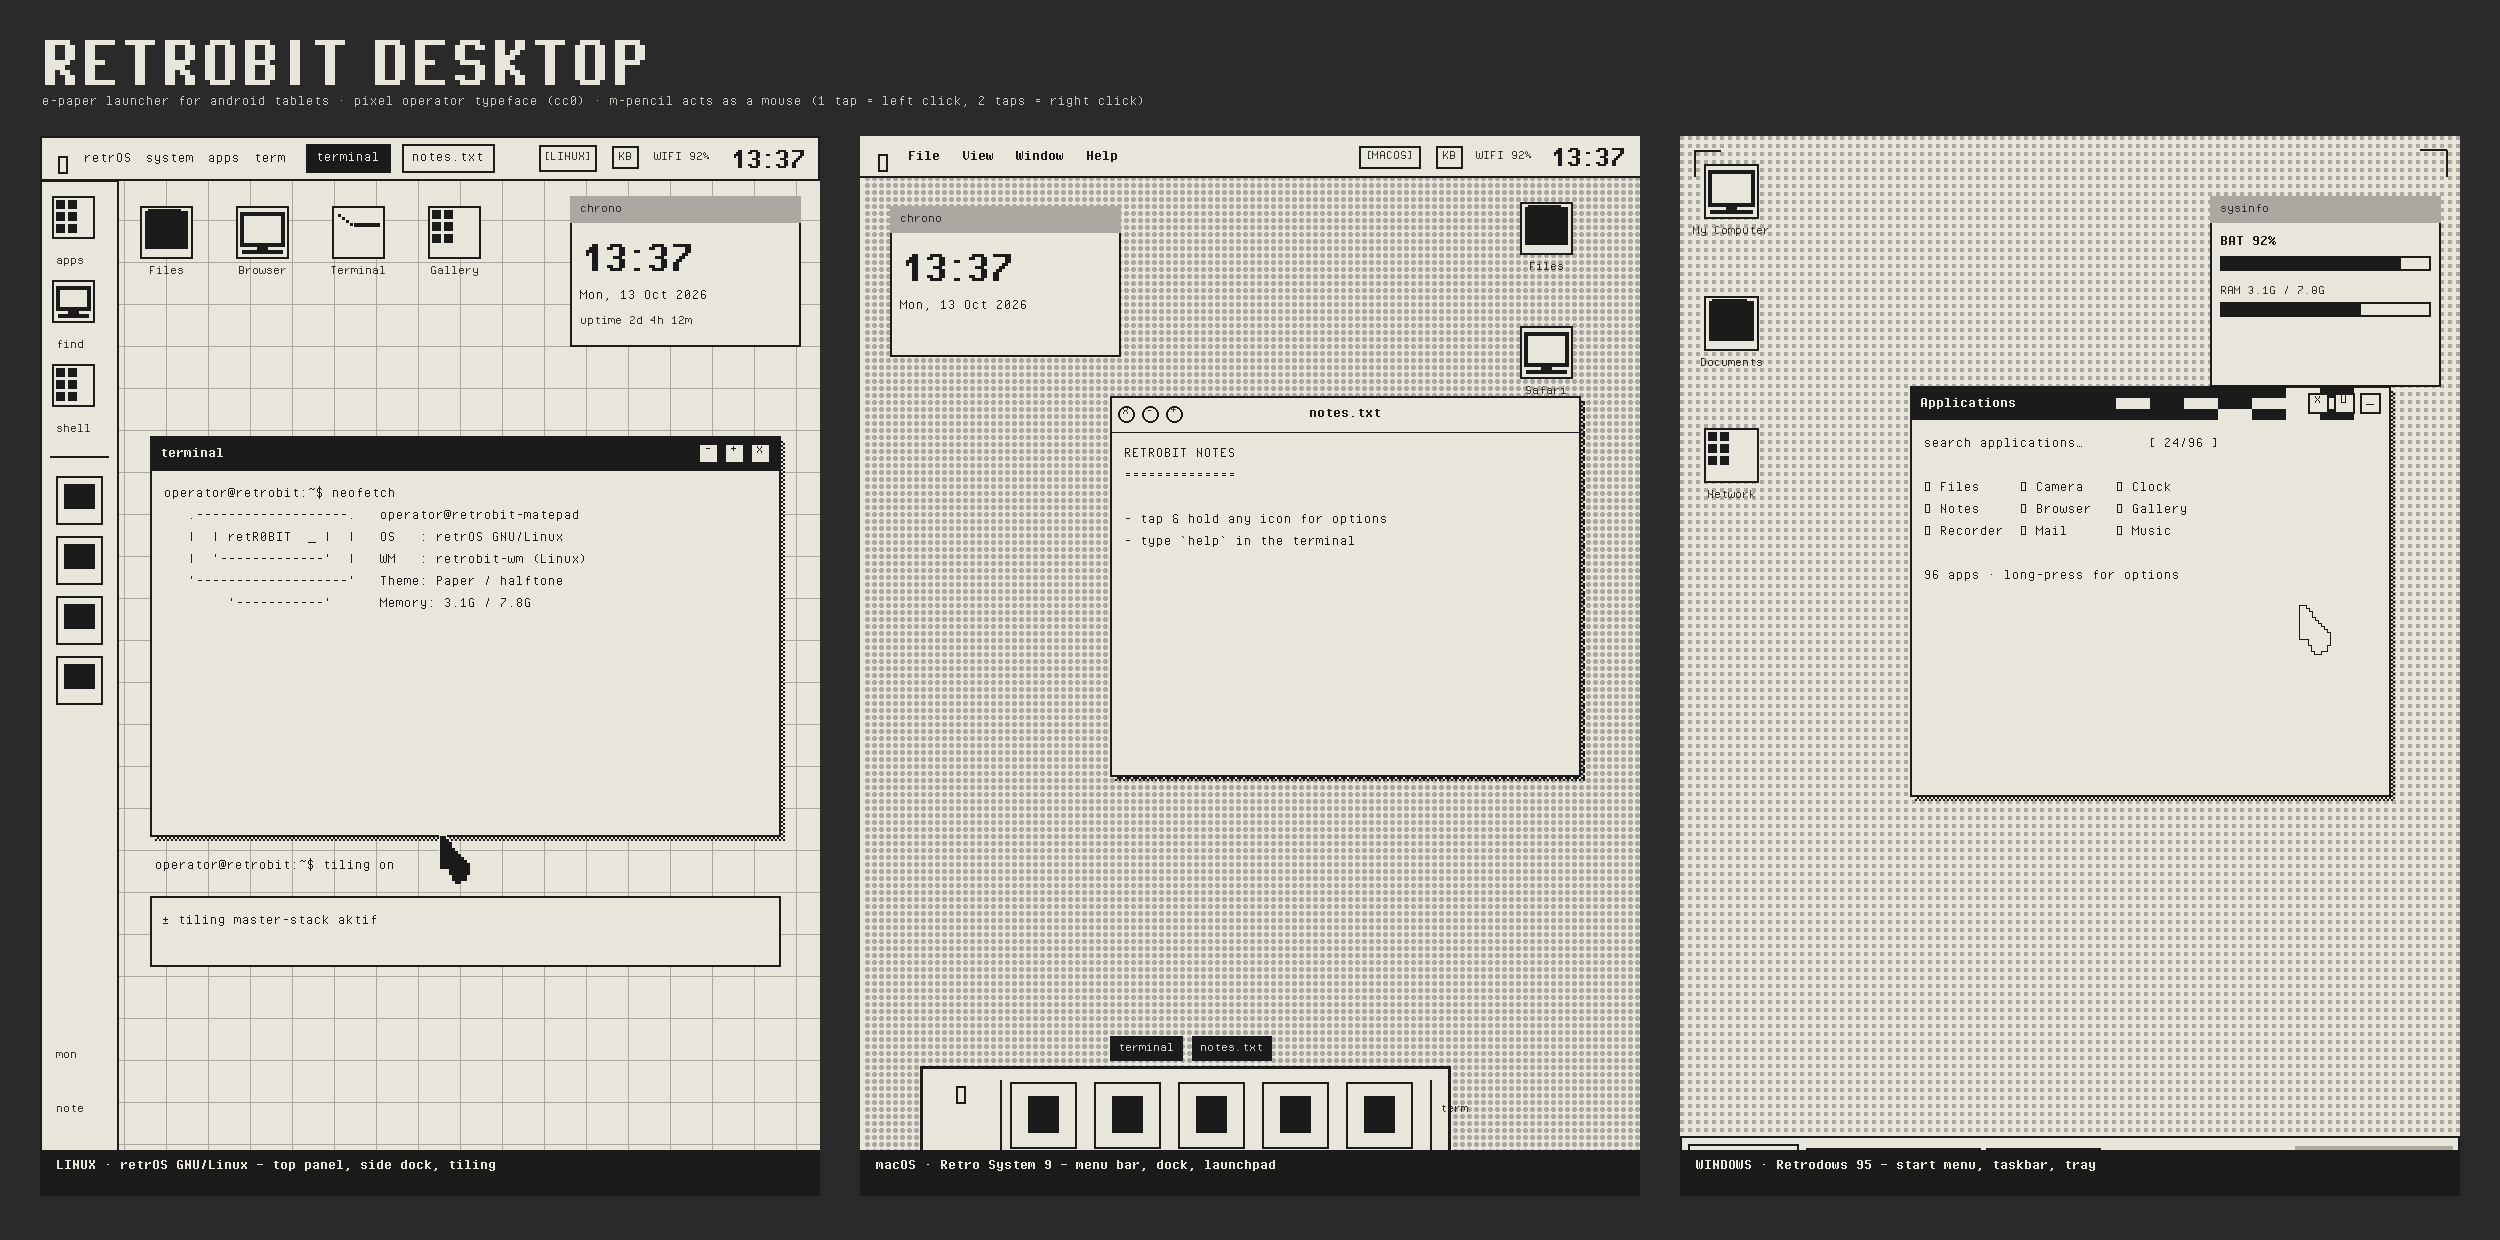
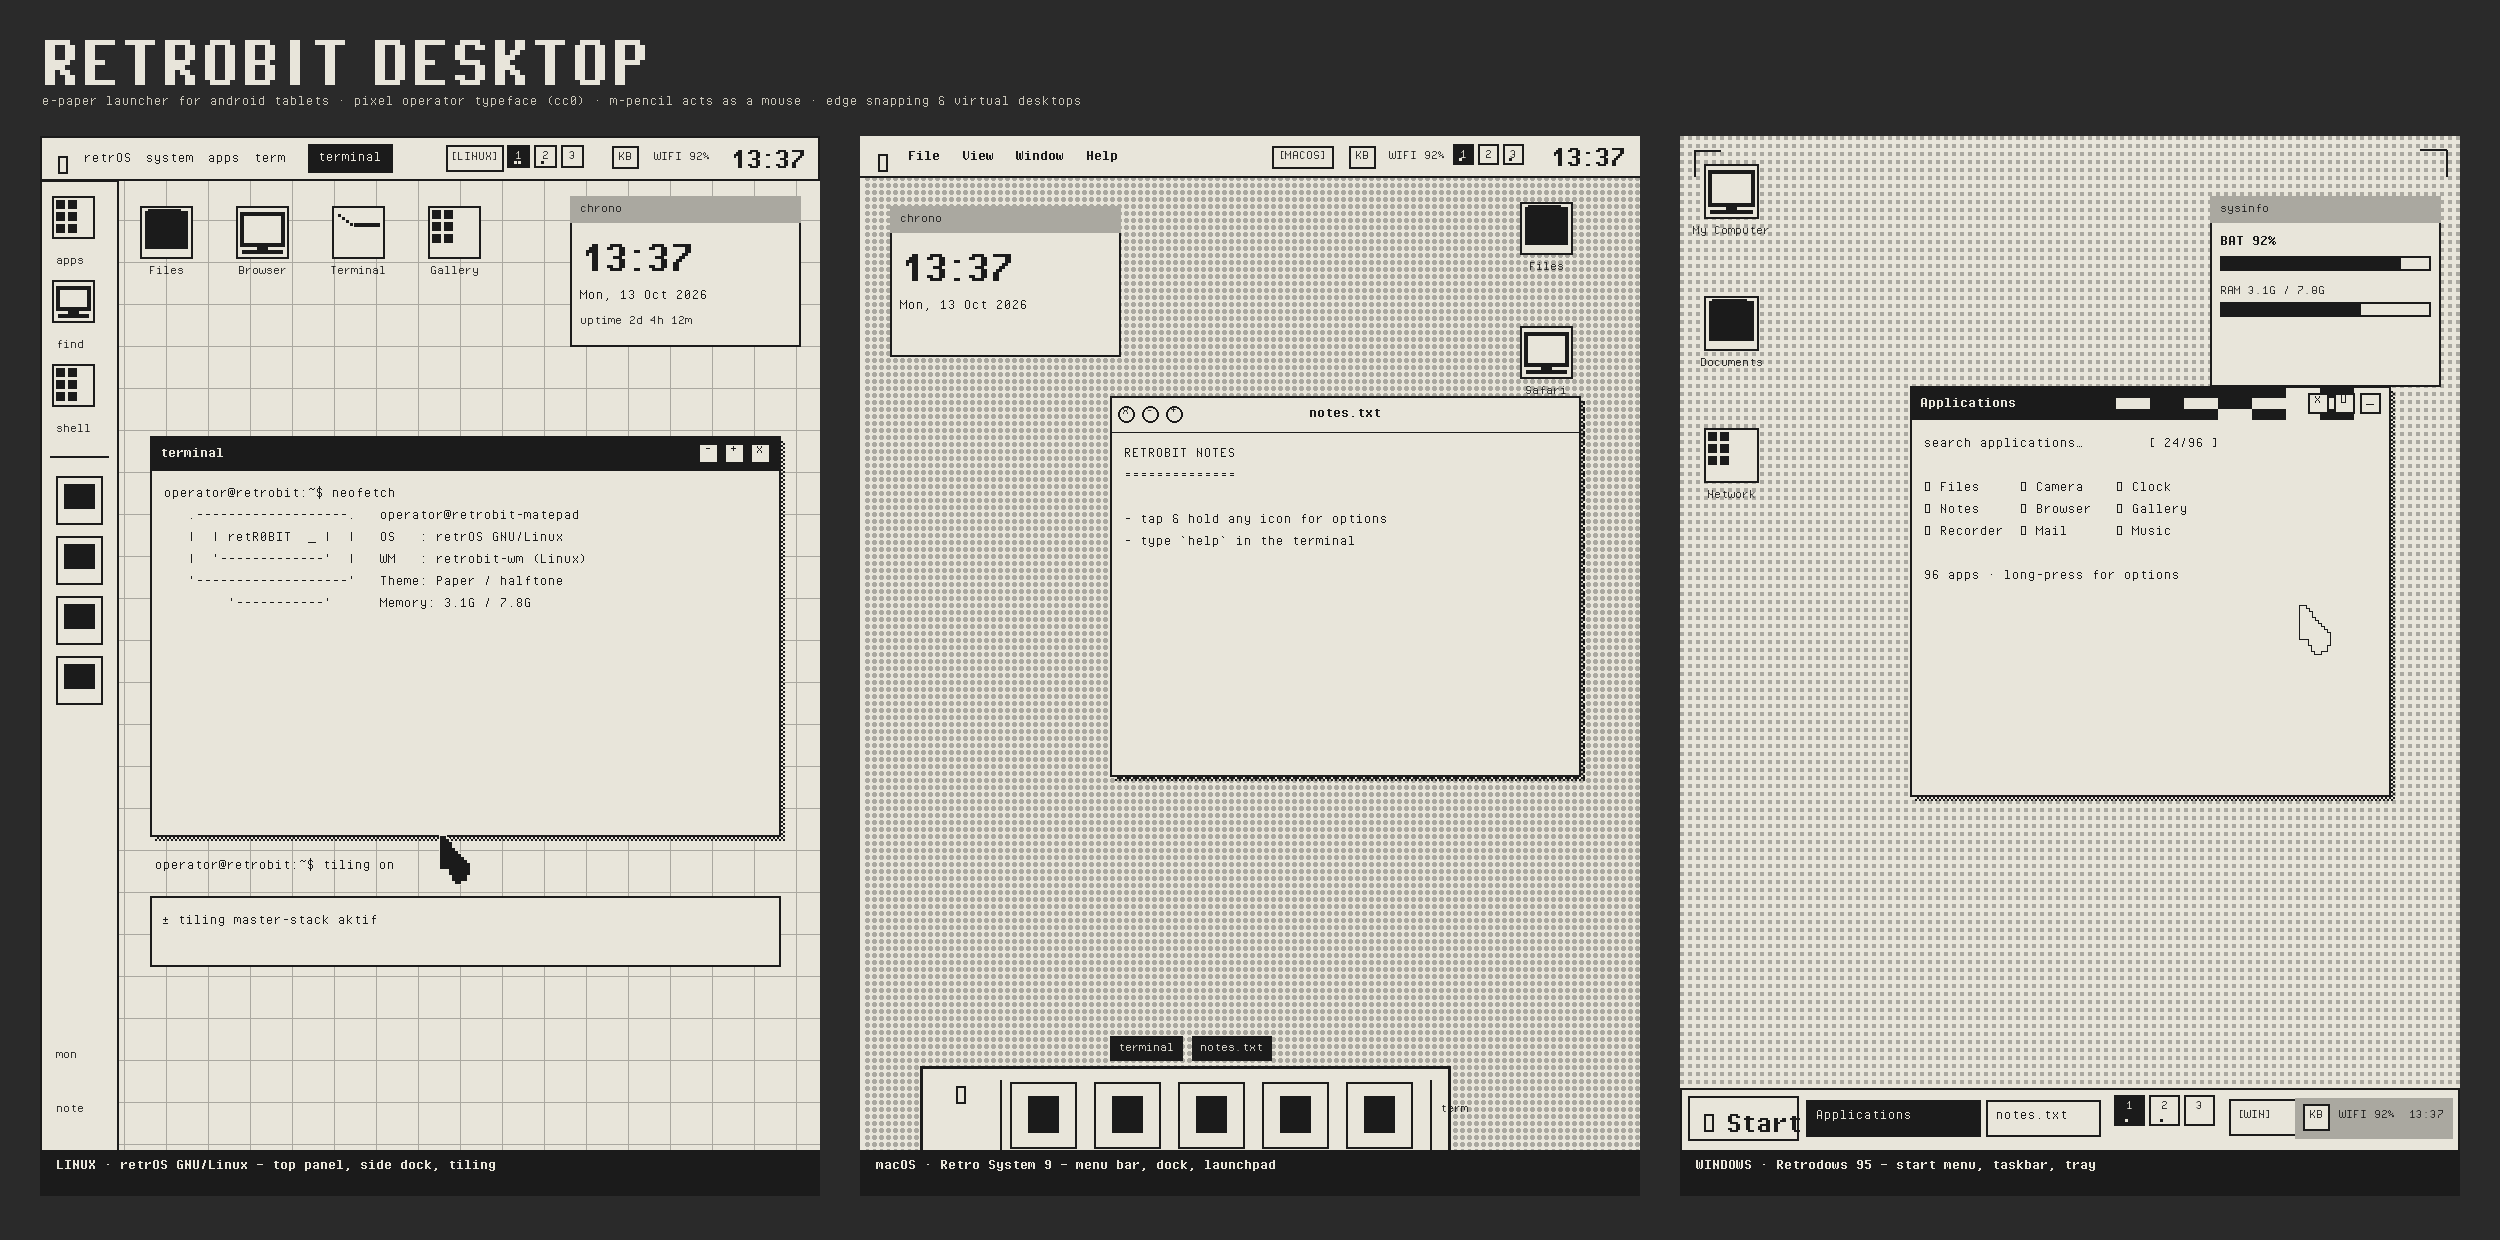
docs: workspace pager in the UI preview, README + workflow docs for snapping/workspaces/tests

Changed region(s): [[0.6552, 0.8581, 0.9984, 0.95], [0.156, 0.1226, 0.2496, 0.1532], [0.5304, 0.1226, 0.5928, 0.1532]]

diff --git a/tools/mockup.py b/tools/mockup.py
@@ -201,6 +201,22 @@ def window(d, box, title, glyph_label=None, win95=False, mac=False, body_lines=(
     return y
 
 
+def pager(d, x, y, size=26, cells=3, active=0, windows=(1, 0, 1)):
+    """Virtual desktop switcher: numbered squares with window-count dots."""
+    p = INK
+    for i in range(cells):
+        bx = x + i * (size + 5)
+        filled = i == active
+        d.rectangle([bx, y, bx + size, y + size], fill=p if filled else PAPER, outline=p, width=2)
+        num = str(i + 1)
+        nw = d.textlength(num, font=mono_tiny)
+        d.text((bx + size / 2 - nw / 2, y + 2), num, font=mono_tiny, fill=PAPER if filled else INK)
+        for k in range(windows[i] if i < len(windows) else 0):
+            dx = bx + size / 2 - 4 + k * 4
+            d.rectangle([dx, y + size - 6, dx + 2, y + size - 4], fill=PAPER if filled else INK)
+    return x
+
+
 def panel(caption, style):
     w, h = 780, 1060
     img = Image.new("RGB", (w, h), PAPER)
@@ -223,33 +239,40 @@ def panel(caption, style):
         # top panel
         d.rectangle([0, 0, w, 44], fill=PAPER)
         bevel(d, [0, 0, w - 1, 44])
-        x = lab(d, 14, 12, "◆", px_small)
-        x = text_run(d, 44, 13, ["retrOS", "system", "apps", "term"], mono, gap=14)
-        # active window button ("terminal")
-        tw = d.textlength("terminal", font=mono)
-        d.rectangle([x + 6, 8, x + 26 + tw, 36], fill=INK)
-        d.text((x + 16, 12), "terminal", font=mono, fill=PAPER)
-        x += 32 + tw
-        tw2 = d.textlength("notes.txt", font=mono)
-        d.rectangle([x + 6, 8, x + 26 + tw2, 36], fill=PAPER, outline=INK, width=2)
-        d.text((x + 16, 12), "notes.txt", font=mono, fill=INK)
-        # right cluster, aligned to the panel edge
+        # right-hand cluster is laid out first so the window buttons know where to stop
         clock_w = d.textlength("13:37", font=px_small)
         d.text((w - 14 - clock_w, 6), "13:37", font=px_small, fill=INK)
         rx = w - 24 - clock_w
-        for label, kind in [("WIFI 92%", "text"), ("KB", "button")]:
-            tw3 = d.textlength(label, font=mono_tiny)
-            if kind == "text":
-                d.text((rx - tw3 - 10, 12), label, font=mono_tiny, fill=INK)
-                rx -= tw3 + 20
+        for label in ("WIFI 92%", "KB"):
+            tw = d.textlength(label, font=mono_tiny)
+            if label == "KB":
+                d.rectangle([rx - tw - 18, 10, rx - 6, 32], fill=PAPER, outline=INK, width=2)
+                d.text((rx - tw - 12, 12), label, font=mono_tiny, fill=INK)
+                rx -= tw + 30
             else:
-                d.rectangle([rx - tw3 - 18, 10, rx - 6, 32], fill=PAPER, outline=INK, width=2)
-                d.text((rx - tw3 - 12, 12), label, font=mono_tiny, fill=INK)
-                rx -= tw3 + 30
+                d.text((rx - tw - 10, 12), label, font=mono_tiny, fill=INK)
+                rx -= tw + 20
+        rx = pager(d, rx - (3 * 27 + 12), 9, size=22, cells=3, active=0, windows=(2, 1, 0))
         chip = "[LINUX]"
         cw = d.textlength(chip, font=mono_tiny)
         d.rectangle([rx - cw - 12, 9, rx - 4, 35], fill=PAPER, outline=INK, width=2)
         d.text((rx - cw - 8, 12), chip, font=mono_tiny, fill=INK)
+        limit = rx - cw - 24
+
+        x = lab(d, 14, 12, "◆", px_small)
+        x = text_run(d, 44, 13, ["retrOS", "system", "apps", "term"], mono, gap=14)
+        x += 8
+        for label, active in [("terminal", True), ("notes.txt", False)]:
+            tw = d.textlength(label, font=mono)
+            if x + tw + 26 > limit:
+                break
+            if active:
+                d.rectangle([x, 8, x + tw + 20, 36], fill=INK)
+                d.text((x + 10, 12), label, font=mono, fill=PAPER)
+            else:
+                d.rectangle([x, 8, x + tw + 20, 36], fill=PAPER, outline=INK, width=2)
+                d.text((x + 10, 12), label, font=mono, fill=INK)
+            x += tw + 28
         # left dock
         d.rectangle([0, 44, 78, h], fill=PAPER)
         bevel(d, [0, 44, 78, h])
@@ -293,6 +316,7 @@ def panel(caption, style):
         clock_w = d.textlength("13:37", font=px_small)
         d.text((w - 14 - clock_w, 4), "13:37", font=px_small, fill=INK)
         rx = w - 24 - clock_w
+        rx = pager(d, rx - (3 * 25 + 12), 8, size=20, cells=3, active=0, windows=(1, 0, 1))
         for label, kind in [("WIFI 92%", "text"), ("KB", "button"), ("[MACOS]", "button")]:
             tw = d.textlength(label, font=mono_tiny)
             if kind == "button":
@@ -356,8 +380,8 @@ def panel(caption, style):
             "",
             "96 apps · long-press for options",
         ])
-        # taskbar
-        tb = h - 60
+        # taskbar (kept clear of the caption band at the bottom)
+        tb = h - 46 - 62
         d.rectangle([0, tb, w, h], fill=PAPER)
         bevel(d, [0, tb, w - 1, h - 1])
         d.rectangle([8, tb + 8, 118, tb + 52], fill=PAPER, outline=INK, width=2)
@@ -366,6 +390,10 @@ def panel(caption, style):
         d.text((136, tb + 18), "Applications", font=mono, fill=PAPER)
         d.rectangle([306, tb + 12, 420, tb + 48], fill=PAPER, outline=INK, width=2)
         d.text((316, tb + 18), "notes.txt", font=mono, fill=INK)
+        px_ = pager(d, 434, tb + 7, size=30, cells=3, active=0, windows=(1, 1, 0))
+        chip_x = px_ + 3 * 35 + 10
+        d.rectangle([chip_x, tb + 11, chip_x + 84, tb + 47], fill=PAPER, outline=INK, width=2)
+        d.text((chip_x + 8, tb + 18), "[WIN]", font=mono_tiny, fill=INK)
         tray = "WIFI 92%  13:37"
         tray_w = d.textlength(tray, font=mono_tiny)
         d.rectangle([w - tray_w - 60, tb + 10, w - 8, tb + 50], fill=PATTERN)
@@ -393,7 +421,7 @@ def main():
     d = ImageDraw.Draw(sheet)
     big = ImageFont.truetype(os.path.join(FONT_DIR, "pixel_operator_bold.ttf"), 80)
     d.text((40, 20), "RETROBIT DESKTOP", font=big, fill=PAPER)
-    d.text((42, 92), "e-paper launcher for android tablets · pixel operator typeface (cc0) · m-pencil acts as a mouse (1 tap = left click, 2 taps = right click)",
+    d.text((42, 92), "e-paper launcher for android tablets · pixel operator typeface (cc0) · m-pencil acts as a mouse · edge snapping & virtual desktops",
            font=mono, fill=(0xC9, 0xC5, 0xB8))
     x = 40
     for p in panels:

diff --git a/README.md b/README.md
@@ -53,6 +53,14 @@ lengkap dengan window manager, tiga gaya desktop yang bisa dipilih, dan sistem v
 - Jendela bisa digeser (drag title bar), di-resize (grip kanan bawah), minimize / maximize / close.
 - Gaya title bar mengikuti tema (traffic light macOS, gradient Win95, solid + tombol kanan Linux).
 - Cascade otomatis, fokus, task list di panel/taskbar, dan **tiling** (master–stack) untuk gaya Linux.
+- **Snap ke tepi layar**: geser jendela ke tepi kiri/kanan → menempati separuh layar, ke tengah-atas →
+  maximize. Muncul pratinjau berupa outline garis putus-putus (dither) sebelum kamu melepasnya.
+  Sudut atas-kiri/kanan tetap mengikuti aturan tepi (kiri/kanan), seperti Aero Snap.
+- **Virtual desktop (workspace)**: 1–4 desktop, jendela hidup per-desktop. Pager berupa kotak angka
+  di panel / menu bar / taskbar: tap untuk pindah, titik di dalamnya menunjukkan jumlah jendela,
+  tekan lama untuk menu desktop (pindah jendela atau ubah jumlah desktop).
+- Matematika layout (tiling & snap) dipisah ke `ui/wm/LayoutMath.kt` — murni Kotlin tanpa Android,
+  jadi bisa di-unit-test (14 test di `app/src/test/.../LayoutMathTest.kt`).
 
 ### Input: pena, mouse, keyboard
 - M-Pencil diperlakukan sebagai mouse: tap = klik kiri, **tap 2× = klik kanan**, barrel button = klik kanan.
@@ -62,9 +70,10 @@ lengkap dengan window manager, tiga gaya desktop yang bisa dipilih, dan sistem v
 - Dukungan keyboard eksternal dengan 10+ pintasan gaya desktop.
 
 ### Aplikasi bawaan
-- **Terminal** (`rb-sh`) — 25+ perintah: `apps/ls`, `open <nama>`, `neofetch`, `df`, `free`, `ps`,
-  `style linux|macos|windows`, `palette`, `wall`, `icons`, `scale`, `tiling on|off`, `invert`,
-  `wmctrl`, `boot`, `help`, `exit`, dan peluncuran aplikasi langsung dengan mengetik namanya.
+- **Terminal** (`rb-sh`) — 28+ perintah: `apps/ls`, `open <nama>`, `neofetch`, `df`, `free`, `ps`,
+  `style linux|macos|windows`, `palette`, `wall`, `icons`, `scale`, `tiling on|off`,
+  `workspace 1..4` (`ws`), `wsmove 1..4`, `invert`, `wmctrl`, `boot`, `help`, `exit`,
+  dan peluncuran aplikasi langsung dengan mengetik namanya.
 - **Applications** — app drawer dengan pencarian, long-press untuk menu, drag untuk pin.
 - **Settings** — gaya desktop, palet, wallpaper, mode ikon, skala UI, **input & devices
   (pena/mouse/keyboard)**, perilaku, tombol "Set as default launcher".
@@ -116,6 +125,8 @@ Aplikasi ini memperlakukan M-Pencil seperti mouse, jadi tablet bisa dioperasikan
 | `Ctrl+Alt+←` / `Ctrl+Alt+→` / `Tab` | pindah fokus antar jendela |
 | `Ctrl+Alt+↑` | maximize/restore jendela aktif |
 | `Ctrl+Alt+K` | munculkan / sembunyikan keyboard internal |
+| `Ctrl+Alt+1..4` | pindah virtual desktop |
+| `Ctrl+Alt+Shift+1..4` | kirim jendela aktif ke desktop tersebut |
 | `Super` (Meta) | Spotlight (cari aplikasi atau jalankan perintah shell) |
 | `Esc` | tutup popup / spotlight / start menu |
 | `Enter` | jalankan perintah di terminal & field satu baris |
@@ -146,8 +157,10 @@ Animasi BIOS singkat (bisa dimatikan di Settings) plus layar boot bergaya e-pape
 
 Setiap push menjalankan workflow [`.github/workflows/android.yml`](.github/workflows/android.yml):
 
-1. checkout → JDK 17 → Android SDK (platform 35, build-tools 35.0.0) → Gradle (cache)
-2. `./gradlew :app:assembleDebug :app:assembleRelease`
+1. **job `test`** — `./gradlew :app:testDebugUnitTest` (14 unit test untuk matematika tiling &
+   edge-snapping); jumlah test/failure muncul di job summary dan sebagai check annotation
+2. **job `build`** — checkout → JDK 17 → Android SDK (platform 35, build-tools 35.0.0) → Gradle (cache),
+   lalu `./gradlew :app:assembleDebug :app:assembleRelease`
 3. APK diunggah sebagai artifact: `retrobit-desktop-<run>-release.apk` dan `-debug.apk`
 4. Saat dijalankan lewat **workflow_dispatch** (atau saat push tag `v*` / push ke `main`), APK
    dipublikasikan otomatis ke GitHub **Releases** (tag `nightly` untuk pre-release bergulir).
@@ -176,10 +189,12 @@ app/src/main/java/dev/retrobit/desktop/
 ├─ model/Models.kt            # DesktopStyle, PaletteId, WallPattern, IconMode, WinKind, AppEntry
 ├─ ui/theme/                  # Palette, font (VT323 + IBM Plex Mono), pola dither/Bayer
 ├─ ui/components/             # Chrome retro, glyph pixel-art, context menu, icon tile, gesture
-├─ ui/wm/                     # WindowManager, WindowFrame, DragState
+├─ ui/wm/                     # WindowManager, WindowFrame, DragState, LayoutMath (purified tiling/snap maths)
 ├─ ui/apps/                   # Terminal (rb-sh), Applications, Settings, System monitor, Notes, About
 ├─ ui/desktop/                # ShellLinux, ShellMacos, ShellWindows, widget, Spotlight, wallpaper
 └─ ui/boot/BootScreen.kt      # animasi boot
+
+app/src/test/java/dev/retrobit/desktop/ui/wm/LayoutMathTest.kt   # 14 unit test (CI: job "Unit tests")
 ```
 
 ## Font & lisensi
